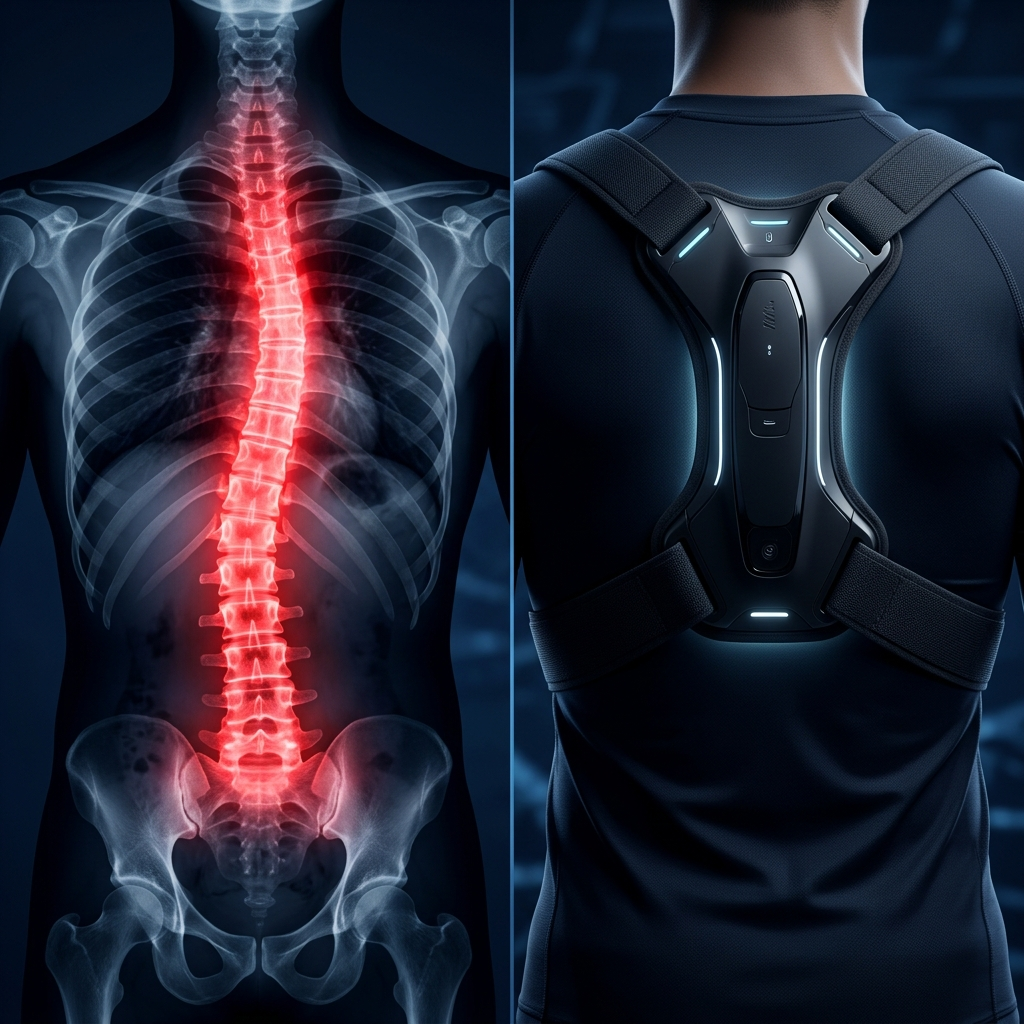
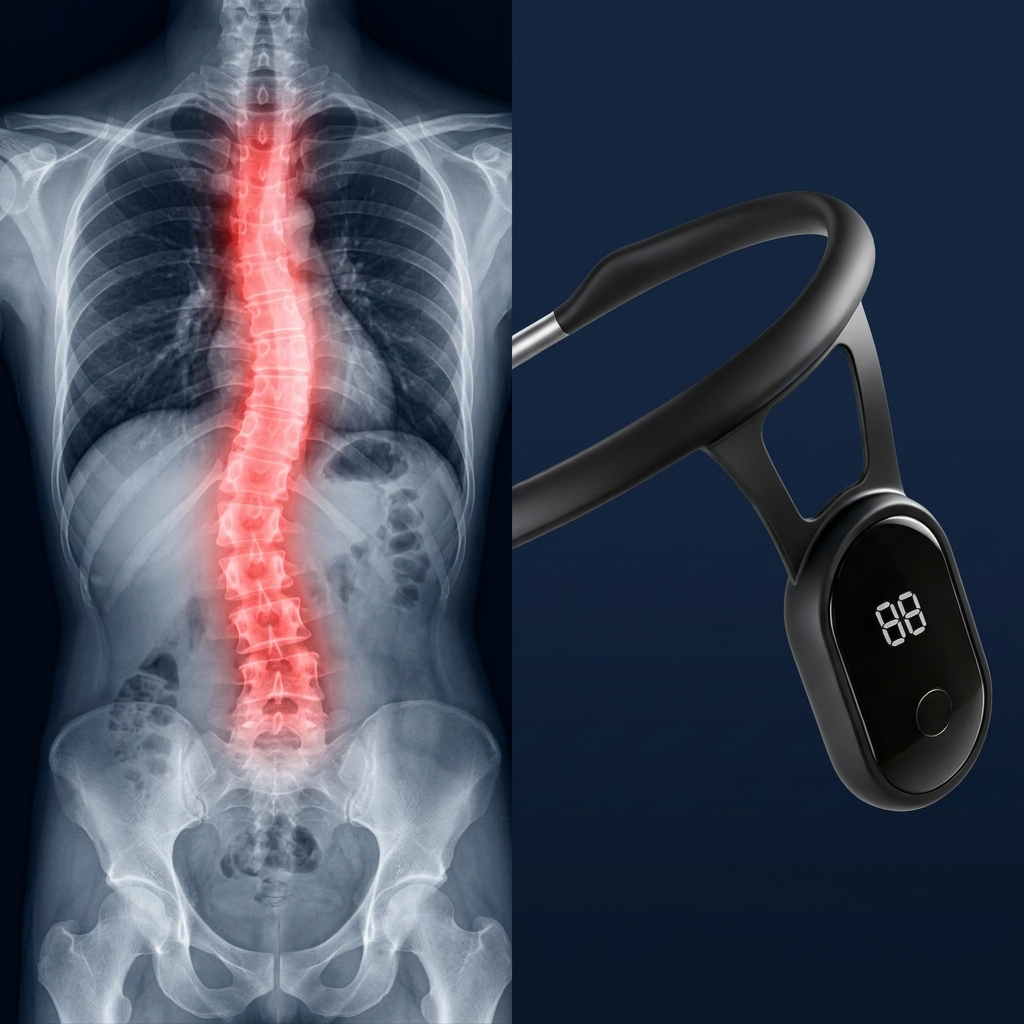
Update compare section to feature a 1:1 image referencing actual product and revert copy to spine surgery costing hundreds of thousands

diff --git a/index.html b/index.html
@@ -1969,8 +1969,8 @@
                 <div class="cost-infographic-row" style="display: flex; flex-direction: column; gap: 20px;">
                     <div style="display: flex; justify-content: space-around; width: 100%; text-align: center;">
                         <div>
-                            <div class="col-label">กายภาพบำบัดต่อเนื่อง</div>
-                            <div class="col-price text-danger">฿20,000 - ฿50,000</div>
+                            <div class="col-label">ผ่าตัดกระดูกสันหลังคด</div>
+                            <div class="col-price text-danger">หลักแสนบาท</div>
                         </div>
                         <div>
                             <div class="col-label">ป้องกันด้วย VERTIC</div>
@@ -2011,8 +2011,8 @@
                             <td class="cost-low">0 ฿</td>
                         </tr>
                         <tr>
-                            <td>ทำกายภาพบำบัดต่อเนื่อง</td>
-                            <td class="cost-high">20,000-50,000 ฿</td>
+                            <td>ผ่าตัดกระดูกสันหลังคด</td>
+                            <td class="cost-high">หลักแสนบาท</td>
                             <td class="cost-low">0 ฿</td>
                         </tr>
                         <tr>